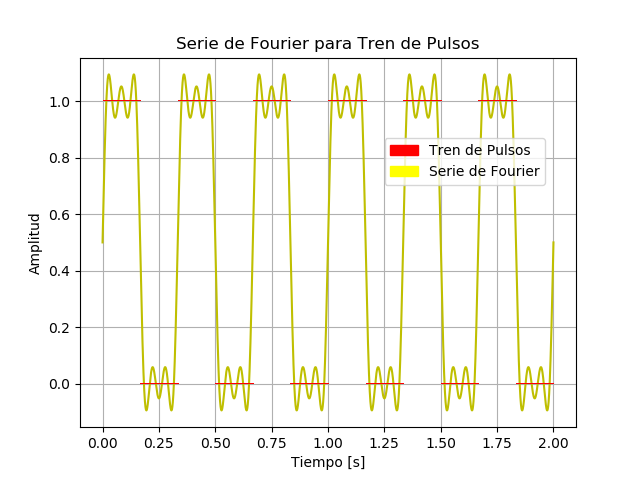
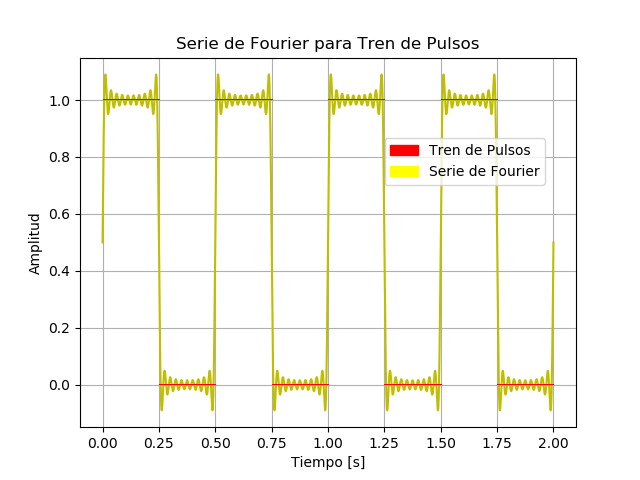
miriam falied

diff --git a/kaplan_rodriguez_rebora/templates/base/base.html b/kaplan_rodriguez_rebora/templates/base/base.html
@@ -29,7 +29,7 @@
       <div id="" class="list-group">
         <a class="list-group-item list-group-item-action" href="/pulses">Discontinua (Tren de pulsos)</a>
         <a class="list-group-item list-group-item-action" href="/continuous">Contínua (Sinc)</a>
-        <a class="list-group-item list-group-item-action" href="/seegibbs">See Gibbs</a>
+        <!-- <a class="list-group-item list-group-item-action" href="/seegibbs">See Gibbs</a> -->
   
       </div>
     </div>

diff --git a/kaplan_rodriguez_rebora/templates/pulses.html b/kaplan_rodriguez_rebora/templates/pulses.html
@@ -2,6 +2,7 @@
 
 {% block content %}
 <div class = "col-9 container card bg-light">
+  <h1>Discontinua</h1>
   {% from "_macro.html" import render_field %}
   <form id="rec-play" action="/results" method="POST">
 

diff --git a/kaplan_rodriguez_rebora/templates/continuous.html b/kaplan_rodriguez_rebora/templates/continuous.html
@@ -2,6 +2,7 @@
 
 {% block content %}
 <div class = "col-9 container card bg-light">
+  <h1>Continua</h1>
   {% from "_macro.html" import render_field %}
   <form id="rec-play" action="/results" method="POST">
 

diff --git a/kaplan_rodriguez_rebora/fourier.py b/kaplan_rodriguez_rebora/fourier.py
@@ -105,18 +105,19 @@ def pulseMainFunction (time, freq, method, value, fs = 44100):
     elif method == 'Armónicos [n]':
         stop_at_error = False
         value = int(value)
-        value = value * 2
+        value = value 
     
     # Building Fourier Series
     fourier_tuple = fourierSeries(signal, 1/freq, stop_at_error, value, fs)
     fourier_series = fourier_tuple[0]
     n_harmonics = fourier_tuple[1]
     ms_error = fourier_tuple[2]
+    gibbs = gibbsCheck(signal, fourier_series)
     
     if ((1/2*freq) > time ):
         msg = "La señal representada es una constante, no un tren de pulsos. Para corregir esto ingrese un valor de tiempo mayor a la mitad del período."
     else:
-        msg = "Porcentaje de Gibbs: 18%"
+        msg = "Porcentaje de Gibbs: " + str(gibbs) + "%" 
    
     # Plotting
     plt.plot(vector_t, fourier_series,'y', label='Serie de Fourier')
@@ -133,7 +134,7 @@ def pulseMainFunction (time, freq, method, value, fs = 44100):
     plt.close()
     
     # Return values
-    return {"harmonics": round(n_harmonics/2), "error": round(ms_error, 4), "msg": msg}
+    return {"harmonics": round(n_harmonics), "error": round(ms_error, 4), "msg": msg, "gibbs": gibbs}
 
          
 def sincMainFunction (time, arg, method, value, fs = 44100):
